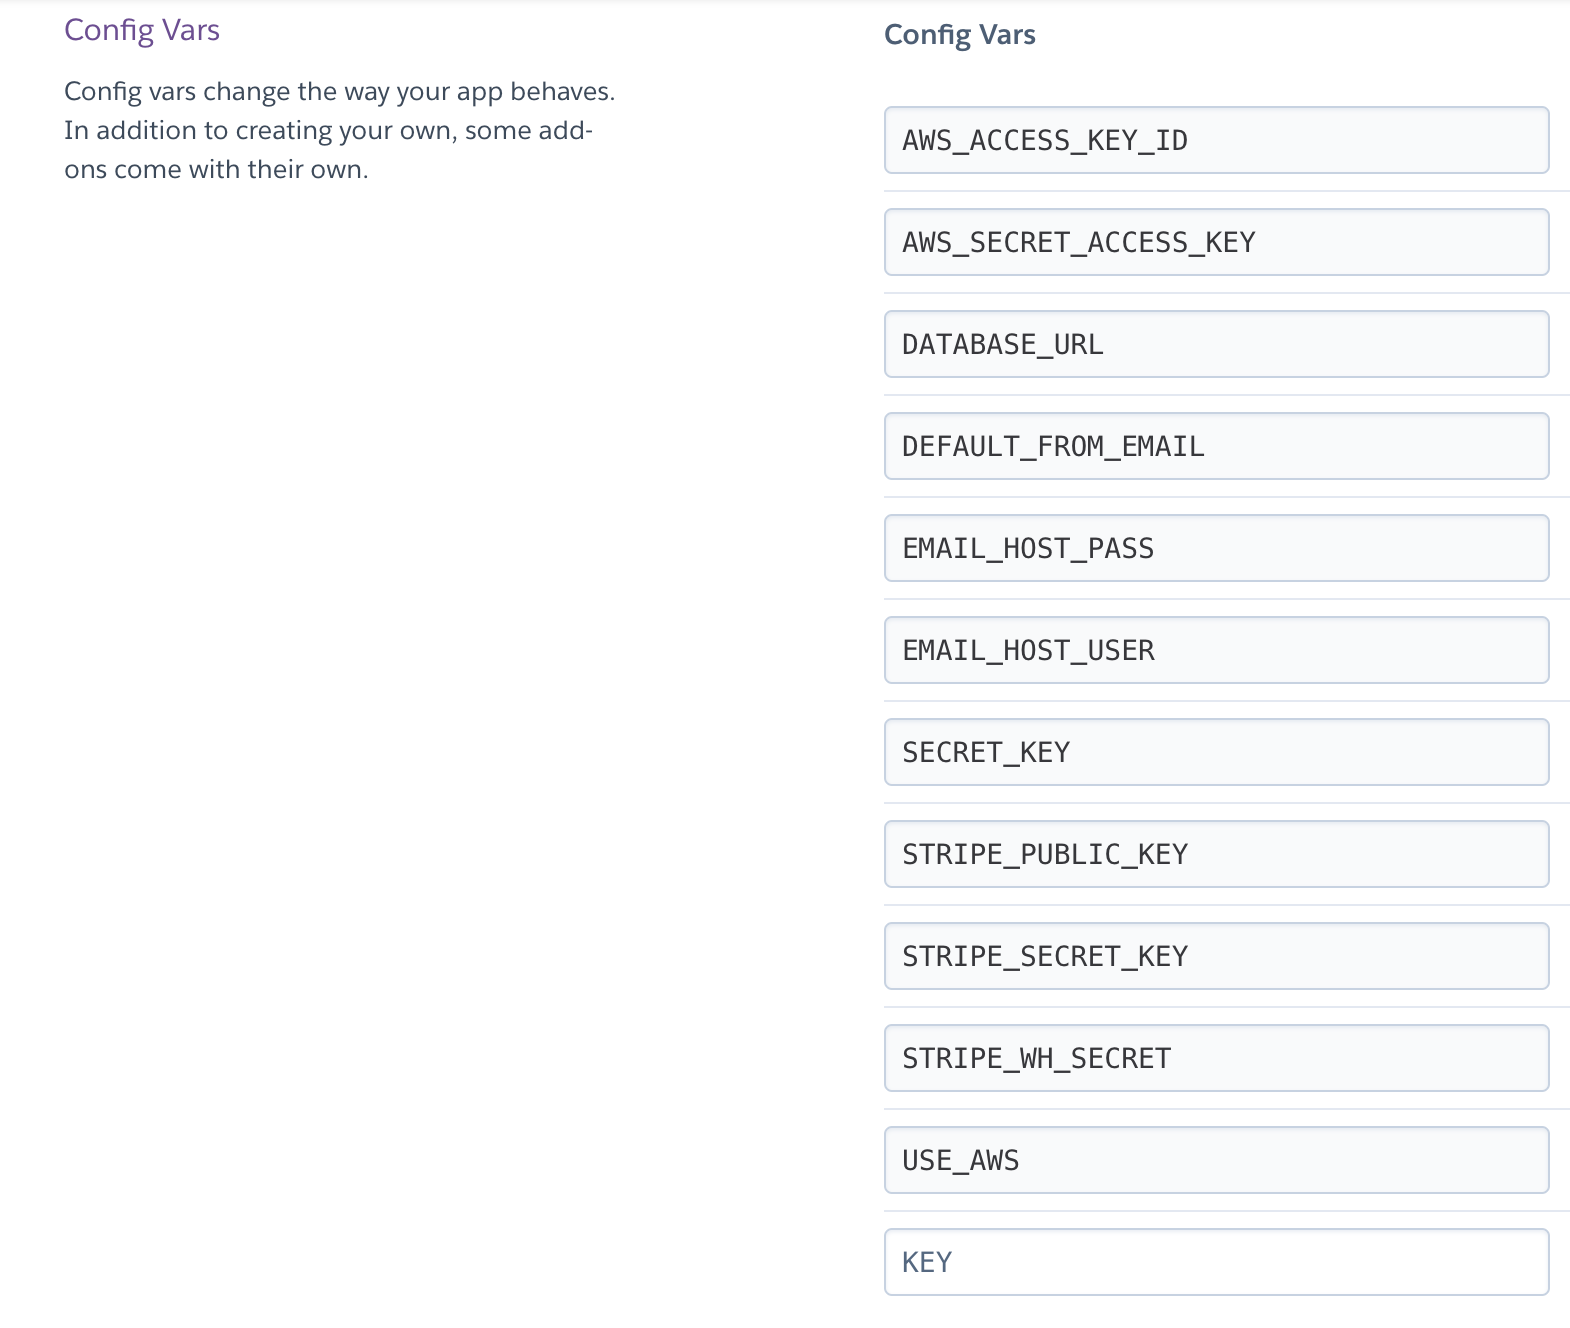
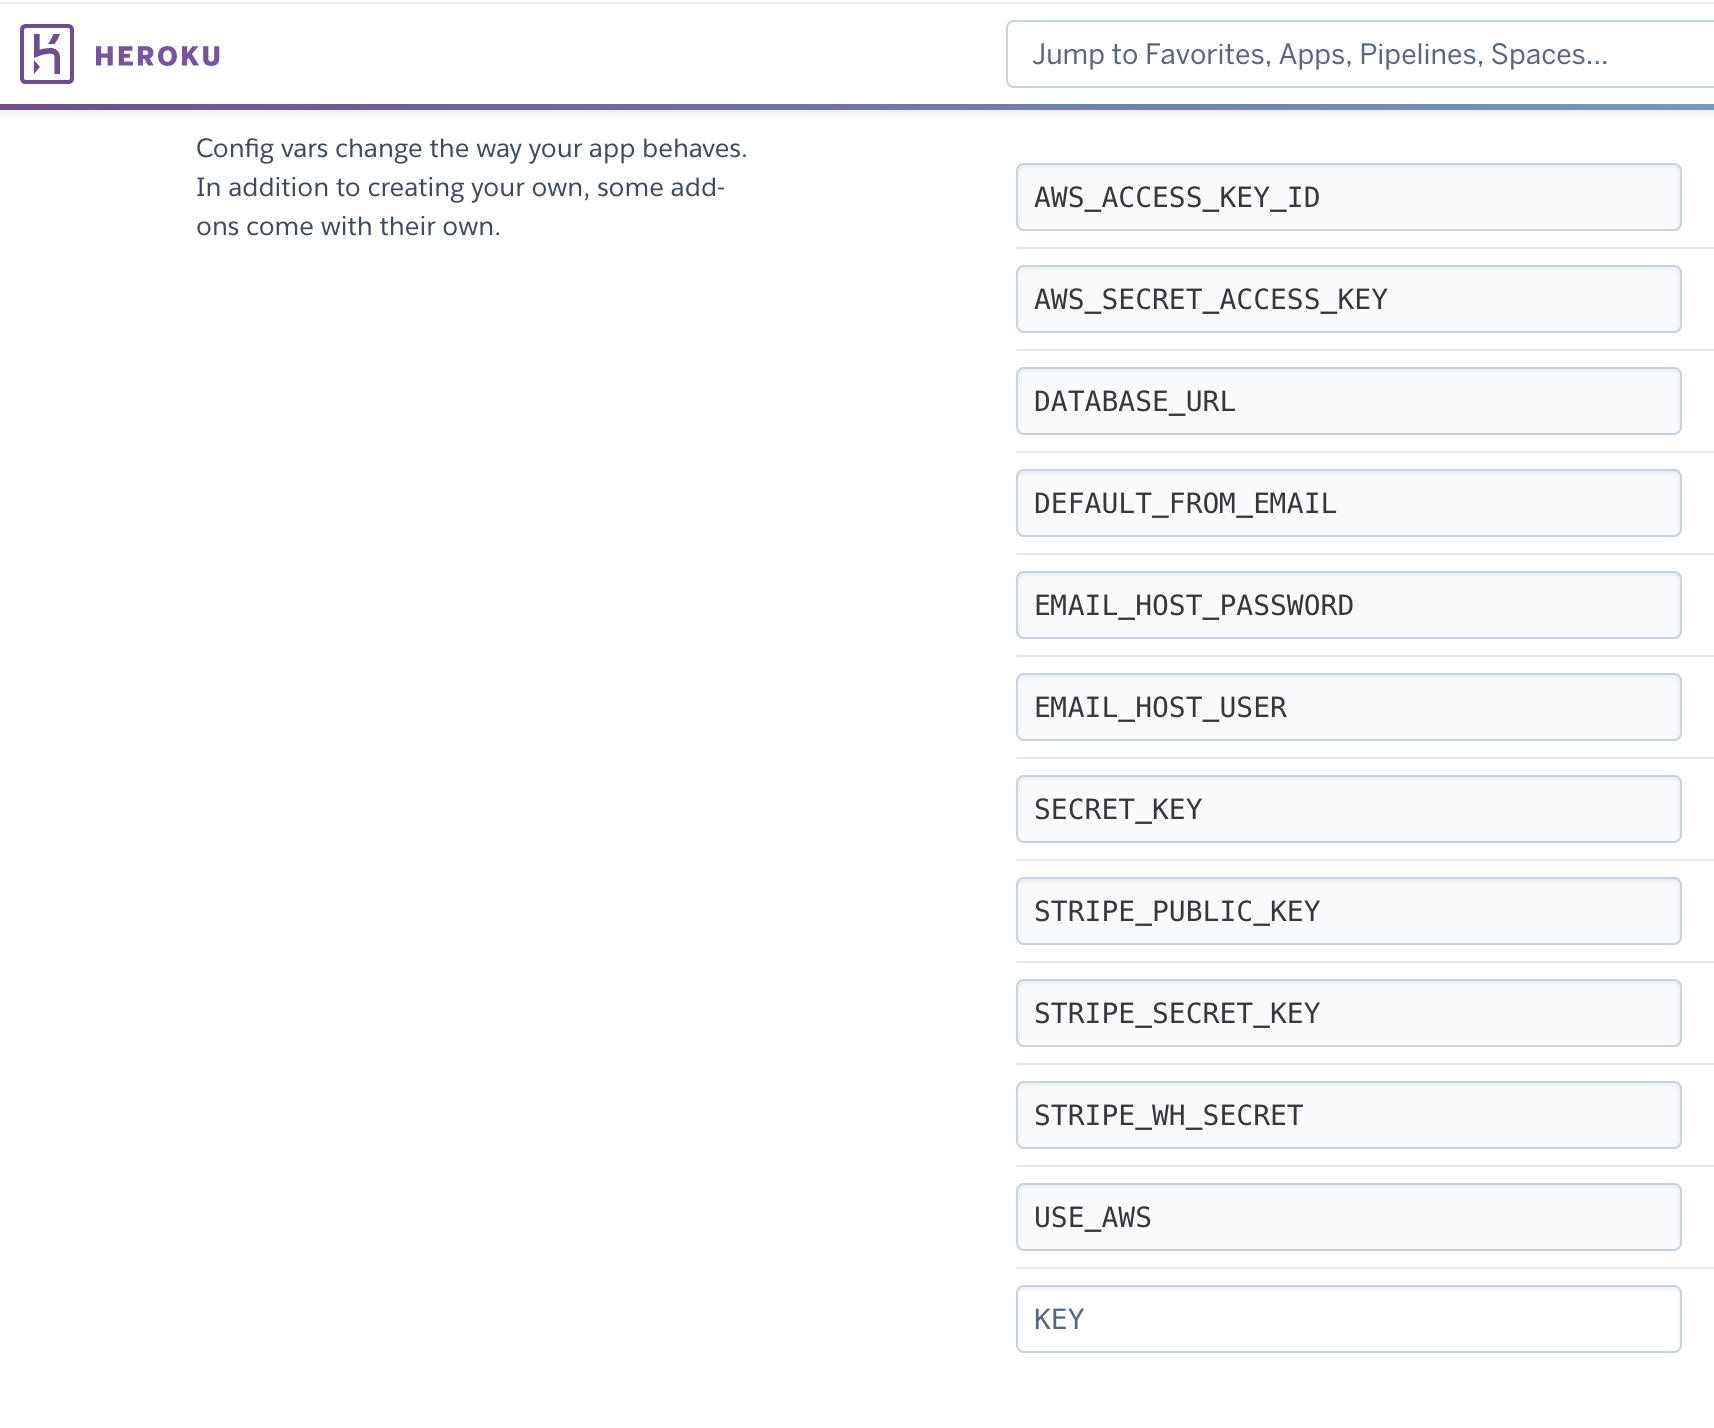
docs: further corrections to README

Changed region(s): [[0.0, 0.0, 1.0, 0.9571], [0.9675, 0.2779, 0.9987, 0.3396], [0.9675, 0.8336, 0.9987, 0.8645]]

diff --git a/README.md b/README.md
@@ -1,4 +1,4 @@
-# South Roast: an e-commerce website for a local coffee roaster
+# SouthRoast: an e-commerce website for a local coffee roaster
 
 ![Homepage](docs/homepage.png)
 
@@ -89,18 +89,18 @@ The target audiences for the website are new customers who are interested in the
 
 15. Showcase all the products the business offers, sorted into categories
 16. Allow for community engagement and feedback from customers
-17. Easily add or remove products sitewide using the admin page
+17. Easily add, update, and remove products sitewide using the admin-only pages
 18. Ensure all orders are saved and completed properly
 
 ## Design 
 
 ### Design Choices
 
-I have opted for a simple and consistent design across the site. Using bootstrap and custom classes, I have aimed at creating a cohesive style for the site that matches the tone of the business, as a small local coffee roaster. 
+I have opted for a simple and consistent design across the site. Using bootstrap and custom CSS, I have aimed at creating a cohesive style for the site that matches the tone of the business, as a small local coffee roaster. 
 
 ### Colours
 
-In keeping with the coffee theme, I have chosen a dark brown background colour for headings and distinct sections that stands out and complements the lighter brown coffee themed background. I chose to make this darker colour slightly transparent, so that it integrates a little better with the background image and with the soft aesthetic.
+In keeping with the coffee theme, I have chosen a dark brown background colour for headings and distinct sections which stands out and complements the lighter brown coffee themed background. I chose to make this darker colour slightly transparent, so that it integrates a little better with the background image and with the soft aesthetic.
 
 ### Fonts
 
@@ -110,7 +110,7 @@ To maintain the professional consistency and cohesive aesthetic, I have used two
 
 The site uses a persistent navigation bar to navigate between the main pages, with several more focused and detailed pages accessed from within the main pages.
 
-1. Homepage - A landing page that demonstrates what the business is offering and establishes the site and user goals
+1. Homepage - A landing page that demonstrates what the business is offering and establishes both the site and user goals
 
 2. Products - A complete list view of all products available. This can be filtered by a variety of categories to make finding the desired product easier. Additionally, in the navigation bar there is a search box by which the user can directly filter all products on the site with a search term.
 
@@ -126,7 +126,7 @@ The site uses a persistent navigation bar to navigate between the main pages, wi
 
 8. About/Contact - Simple breakdown of what the site offers both to regular and wholesale customers. Contains the contact form by which users can contact the business via email.
 
-9. Sign In/Register - Pages for a new user to register an account or for an existing user to log back in to their account, built with django-allauth
+9. Sign In/Register - Pages for a new user to register an account or for an existing user to log back in to their account, built with django-allauth.
 
 10. 404 - Custom 404 page to redirect users to the homepage if they run into any errors on the site
 
@@ -311,7 +311,7 @@ User Stories: 1, 3, 4, 9, 15, 16
 ### Reviews & Star Ratings
 
 - Up-to-date average star ratings from user ratings on all products, with specific user ratings associated with user reviews and profiles
-- User created reviews on all product pages with dates and ratings
+- User created reviews on product pages with dates and ratings
 
 ### Cart & Checkout
 
@@ -570,7 +570,7 @@ As a first-time user, I want to:
 
 | **Feature** | **Action** | **Expected Result** | **Actual Result** |
 | ---- | ---- | ---- | ---- |
-| About | Navigate to About Page | Presented with information about the site | Works as expected |
+| About | Navigate to Meet Us/Contact page | Presented with information about the site | Works as expected |
 
 <details><summary>Screen Capture</summary>
 <img src="docs/user-stories/user-story-one.gif">
@@ -746,11 +746,22 @@ As a first-time user, I want to:
 <img src="docs/user-stories/user-story-sixteen.gif">
 </details>
 
+17. Easily add, update, and remove products sitewide using the admin-only pages
+
+| **Feature** | **Action** | **Expected Result** | **Actual Result** |
+| ---- | ---- | ---- | ---- |
+| Products | Access the admin only product pages and either select delete or add/update product details to the form | Creates, updates or deletes product in database | Works as expected |
+
+
+<details><summary>Screen Capture</summary>
+<img src="docs/user-stories/user-story-seventeen.gif">
+</details>
+
 ### Backend Testing
 
 In order to test the backend code functionality for this project, I chose to implement full manual testing. This was for two reasons. Firstly, as the database interactions performed on the site are largely user centric - both for the registered customers accessing their account's additional features, and for the owner who manages the site and the related data - I wanted to be able to test the database interactions from a frontend user perspective especially. This includes testing the security of the features that require a user to be logged in, and particularly testing the feedback displayed on the frontend from data operations. The second reason I opted for manual testing is to make use of the django admin panel, which I consider one of the framework's most powerful and efficient tools. The django admin panel allows a registered superuser to view and manipulate the site's database; this allows an admin user to view any changes made to the database, to check the effect of database interactions, and to change data easily and quickly using frontend forms. I think this is a powerful tool for testing as well as for site management, as it makes it immediately and efficiently apparent what features are working, how they are working, if there are any errors with database interactions, and if the relationship between frontend and backend interactions is functioning as expected.
 
-For the manual testing, I arranged my desktop as below, with the admin panel on one side of the screen and the site running on the other. This was an effective and efficient way to check that all database interactions were working as expected; by this I mean that all create functionality correctly created model instances with the proper data in the database, that no data was entered when unauthorised and no invalid data was created, that all updates to data were processed fully and did not allow for submission of invalid data, and that delete requests deleted only the requested data from the data base.
+For the manual testing, I arranged my desktop as below, with the admin panel on one side of the screen and the site running on the other. This was an effective and efficient way to check that all database interactions were working as expected; by this I mean that all create functionality correctly created model instances with the proper data in the database, that no data was entered when unauthorised and no invalid data was created, that all updates to data were processed fully and did not allow for submission of invalid data, and that delete requests deleted only the requested data from the database.
 
 ![Manual Testing](docs/manual-testing.jpg)
 
@@ -762,11 +773,11 @@ To test and ensure that all functionality on the site is working as expected and
 - CRUD functionality for Reviews
 - CRUD functionality for UserRatings in the custom django-star-ratings package
 
-I have confirmed that the Order model is properly created upon checkout and can be accessed after purchase. This is supported by backend code in the checkout app, and additionally by Stripe webhooks, which add an additional layer of security and reliability by creating the Order model even in the event of errors/issues during checkout. This is important for the Orders model as this relates directly to payment and the fulfilment of purchases.
+I have confirmed that the Order model is properly created upon checkout and can be accessed after purchase. This is supported by backend code in the checkout app, and additionally by Stripe webhooks, which add an additional layer of security and reliability by creating the Order model even in the event of errors/issues during checkout. This is important for the Order model as this relates directly to payment and the fulfilment of purchases.
 
 I have tested and confirmed that site owners/admin users are capable of creating, updating, and deleting products when logged in, and that this is not possible for guest users, or users registered with normal customer accounts. This is performed on the frontend, in admin-exclusive product pages for CRUD functionality. 
 
-As I chose to fork and write a customised version of the django-star-ratings package, I have manually tested this as well. My version is more focused on individual user ratings than it is on overall average ratings, and so I have confirmed that a signed-in user is capable of creating and updating their star rating model for a product. In the forked version this is linked more specifically to the user model.
+As I chose to fork and write a customised version of the django-star-ratings package, I have manually tested this as well. My version is more focused on individual user ratings than it is on overall average ratings, and so I have confirmed that a signed-in user is capable of creating, updating and deleting their star rating model for a product. In the forked version this is linked more specifically to the user model.
 
 I am satisfied that all database interactions available to signed-in users are not possible for guest users, offering significant value and distinct features to registering for an account on the site, and that the data store cannot be accessed by regular or guest users directly.
 
@@ -774,7 +785,7 @@ I am satisfied that all database interactions available to signed-in users are n
 
 I ran into two major issues during the developent of this website, that were not quickly fixed by minor code corrections. The first issue was related to the django-star-ratings package. This package is designed with a focus on aggregate ratings, and displaying averages to the user. For my purposes, I was considerably more focused on displaying individual user ratings, as part of the CRUD functionality of ratings and reviews on the site. Rather than display an average rating in each instance of the star rating object, I wanted to be able to display different users' invididual star rating in their reviews, and allow the user to see the rating they gave when attempting to update the review. Additionally, the JavaScript that the package uses to dynamically update the visual of the star rating object is designed to demonstrate the impact of the user's rating on the average, and always displays the aggregate rating.
 
-To address this, I had to fork and customise the package. Firstly, I had to amend the UserRating model and all associated code to link it more directly to the User model; this was important to create that relationship in my relational database and make it easy to access an individual user's rating from their profile. Secondly, I decided that I would not enable anonymous ratings on the site; I wanted to encourage user registration by making contribution, discussion, and review all features of registrering for a user account. As I was not allowing anonymous ratings, I removed every reference to the user's IP address across the entire package, and of course removed all functionality that read and stored the IP address. I had some concerns about the potential data security and handling of user IP addresses, and decided that to avoid any innappropriate use of data as defined by GDPR, I would remove those features entirely. Finally, I had to work extensively on the JavaScript that the rating object uses to dynamically reflect which rating the user is hovering over, and which rating they have submitted. In the original version of the package, once the user enters a rating, the JavaScript dynamically updates the star object to reflect the new aggreate average rating. This JavaScript feature was not useful to me, as the average rating is displayed on the product page, and I felt it was more informative to the user to be able to see their rating as it stood in the database. I rewrote the JavaScript to reflect this and used some additional HTML data attributes to pass data between the frontend and the backend, to allow for a dynamic visual representation of the user's individual rating. The new models are more user-focused, and for the purpose of user interaction, more reflective of the CRUD functionality I wanted to implement for the star rating feature of the site.
+To address this, I had to fork and customise the package. Firstly, I had to amend the UserRating model and all associated code to link it more directly to the User model; this was important to create that relationship in my relational database and make it easy to access an individual user's rating from their profile. Secondly, I decided that I would not enable anonymous ratings on the site; I wanted to encourage user registration by making contribution, discussion, and review features available only after registrering for a user account. As I was not allowing anonymous ratings, I removed every reference to the user's IP address across the entire package, and of course removed all functionality that read and stored the IP address. I had some concerns about the potential data security and handling of user IP addresses, and decided that to avoid any innappropriate use of data as defined by GDPR, I would remove those features entirely. Finally, I had to work extensively on the JavaScript that the rating object uses to dynamically reflect which rating the user is hovering over, and which rating they have submitted. In the original version of the package, once the user enters a rating, the JavaScript dynamically updates the star object to reflect the new aggreate average rating. This JavaScript feature was not useful to me, as the average rating is displayed on the product page, and I felt it was more informative to the user to be able to see their rating as it stood in the database. I rewrote the JavaScript to reflect this and used some additional HTML data attributes to pass data between the frontend and the backend, to allow for a dynamic visual representation of the user's individual rating. The new models are more user-focused, and for the purpose of user interaction, more reflective of the CRUD functionality I wanted to implement for the star rating feature of the site.
 
 The second major issue I ran into was related to deployment, whereby the static files for the site were not being uploaded to the S3 bucket as they should. After extensive testing and experimentation, and after consulting with Code Institute's tutor support, it appeared that there was a conflict between this particular feature in Django v5.1.2 and AWS's S3. For this reason, and having exhausted all possible fixes, I decided to downgrade to Django v4.2 where the static files are automatically collected during deployment and uploaded to the S3 bucket where they can be hosted and served to the site. I had to retest all of the features on the site to be sure there were no additional conflicts between any of the code I had written, any of the other packages installed for the site, and the earlier version of Django. As only minor changes were required - particularly with the django-multiselectfield package - I am content to run the app with Django v4.2.
 
@@ -854,7 +865,7 @@ Queryset filtering for ModelChoiceField from [furins on StackOverflow](https://s
 6. Fork and clone into the [repository](https://github.com/amorychambers/ci-ms4-django) on Github 
 ![Fork repository](docs/deployment/deploy-6.png)
 
-7. Comment out the database variable from settings.py and enter the following code, subsituting your own database URL:
+7. Comment out the conditional database variables from settings.py and paste in the following code, subsituting your own database URL:
 
 ```
 DATABASES = {
@@ -888,7 +899,7 @@ python3 manage.py loaddata products
 python3 manage.py createsuperuser
 ```
 
-12. Delete the database URL from settings.py before committing any changes and exposing a security risk, and uncomment the original DATABASES conditional
+12. Delete the temporary DATABASES variable from settings.py before committing any changes and exposing a security risk. Uncomment the original DATABASES conditional
 
 13. Login to the Heroku CLI in the terminal
 
@@ -899,6 +910,7 @@ heroku config:set DISABLE_COLLECTSTATIC=1 -a your-app-name
 ```
 
 15. In the Domains section of the Settings tab in your Heroku app, take the domain name and copy it into the ALLOWED_HOSTS variable in settings.py
+![Domains](docs/deployment/deploy-15.png)
 
 16. Navigate to the Deploy tab of your Heroku app and select the Connect to Github option
 ![Connect to Github](docs/deployment/deploy-16.png)
@@ -908,9 +920,11 @@ heroku config:set DISABLE_COLLECTSTATIC=1 -a your-app-name
 18. Ensure that the main branch is selected, and then either select Deploy Branch for manual deployment or Enable Automatic Deploys to re-deploy site with any push to the main branch
 ![Select deploy](docs/deployment/deploy-18.png)
 
-19. Generate and save a SECRET_KEY variable in the config vars of your Heroku app. Add your STRIPE_PUBLIC_KEY, STRIPE_SECRET_KEY, and STRIPE_WH_SECRET variables from your Stripe account as well.
+19. Generate and save a SECRET_KEY variable in the config vars of your Heroku app. Add your STRIPE_PUBLIC_KEY, STRIPE_SECRET_KEY, and STRIPE_WH_SECRET variables from your Stripe account as well
 
 20. Create an AWS account in order to use S3 for hosting static files
+
+You can check out Michael Herman's [guide on using S3 with Django](https://testdriven.io/blog/storing-django-static-and-media-files-on-amazon-s3/) for further details
 
 21. Create and setup a new AWS S3 bucket for the app
 
@@ -924,7 +938,7 @@ heroku config:set DISABLE_COLLECTSTATIC=1 -a your-app-name
 
 26. Create a new folder in your S3 bucket called 'media'. In this folder, upload all of the files from the media folder; remember to click permissions and add public read access before uploading
 
-27. Configure the email settings EMAIL_HOST_USER, EMAIL_HOST_PASS and DEFAULT_FROM_EMAIL in the config vars to use an email account you can access. EMAIL_HOST_PASS should be an app password
+27. Configure the email settings EMAIL_HOST_USER, EMAIL_HOST_PASSWORD and DEFAULT_FROM_EMAIL in the config vars to use an email account you can access. EMAIL_HOST_PASSWORD should be an app password
 ![Config vars](docs/deployment/deploy-27.png)
 
 The site is now deployed and functional.
@@ -941,10 +955,10 @@ pip3 install -r requirements.txt
 ```
 
 3. Create a PostgreSQL database locally or online where you would like to host the site's data. You will need to enter the name of your database, and will need to configure the DATABASES setting in settings.py if you are not using PostgreSQL
-![Local database](docs/deployment/local-3)
+![Local database](docs/deployment/local-3.png)
 
 4. Create a file called '.env' in the project folder, where the settings file is located. This file should contain the following variables, with the user entering their own database username and password, their own secret key, and their own Stripe account variables
-![Local vars](docs/deployment/local-4)
+![Local vars](docs/deployment/local-4.png)
 
 5. In the terminal, run the following command. You will be asked to select one of three options to address a non-nullable field in the customised django-star-ratings app. It is appropriate to select option 2, as there is no data yet in the database
 ```
